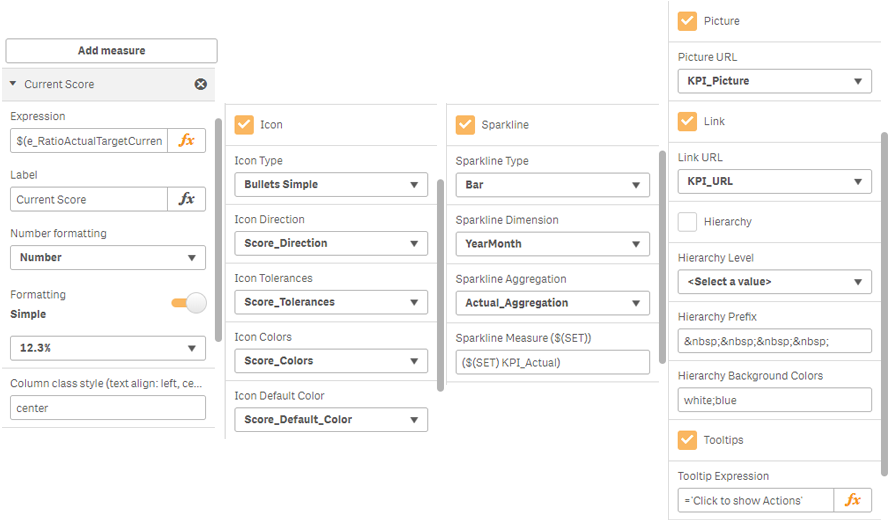
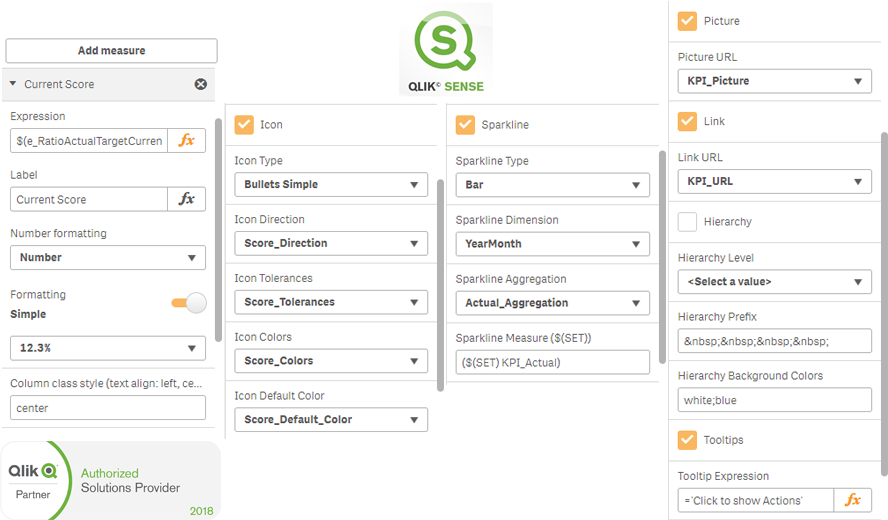
Scorecard section

Changed region(s): [[0.4561, 0.0, 0.5473, 0.1846], [0.0, 0.8615, 0.2128, 1.0], [0.2128, 0.9538, 0.2432, 1.0]]

diff --git a/README.md b/README.md
@@ -24,7 +24,7 @@ Each KPI has its own **score** rules:
 Navigate & cascade simultaneously through **multiple perspectives** due to multi-dimensional live calculations:
 ![Scorecard - PIT Business - Scores](img/scorecard-screenshot-multidimensional.png)
 
-All these features available in a customizable **Qlik Sense extension**:
+All these features available in a customizable **Qlik Sense extension**, developed & supported by your official Qlik Sense Influence Partner [PIT Business](http://www.pit-business.com)
 ![Scorecard - PIT Business - Edit](img/scorecard-screenshot-edit.png)
 
 
